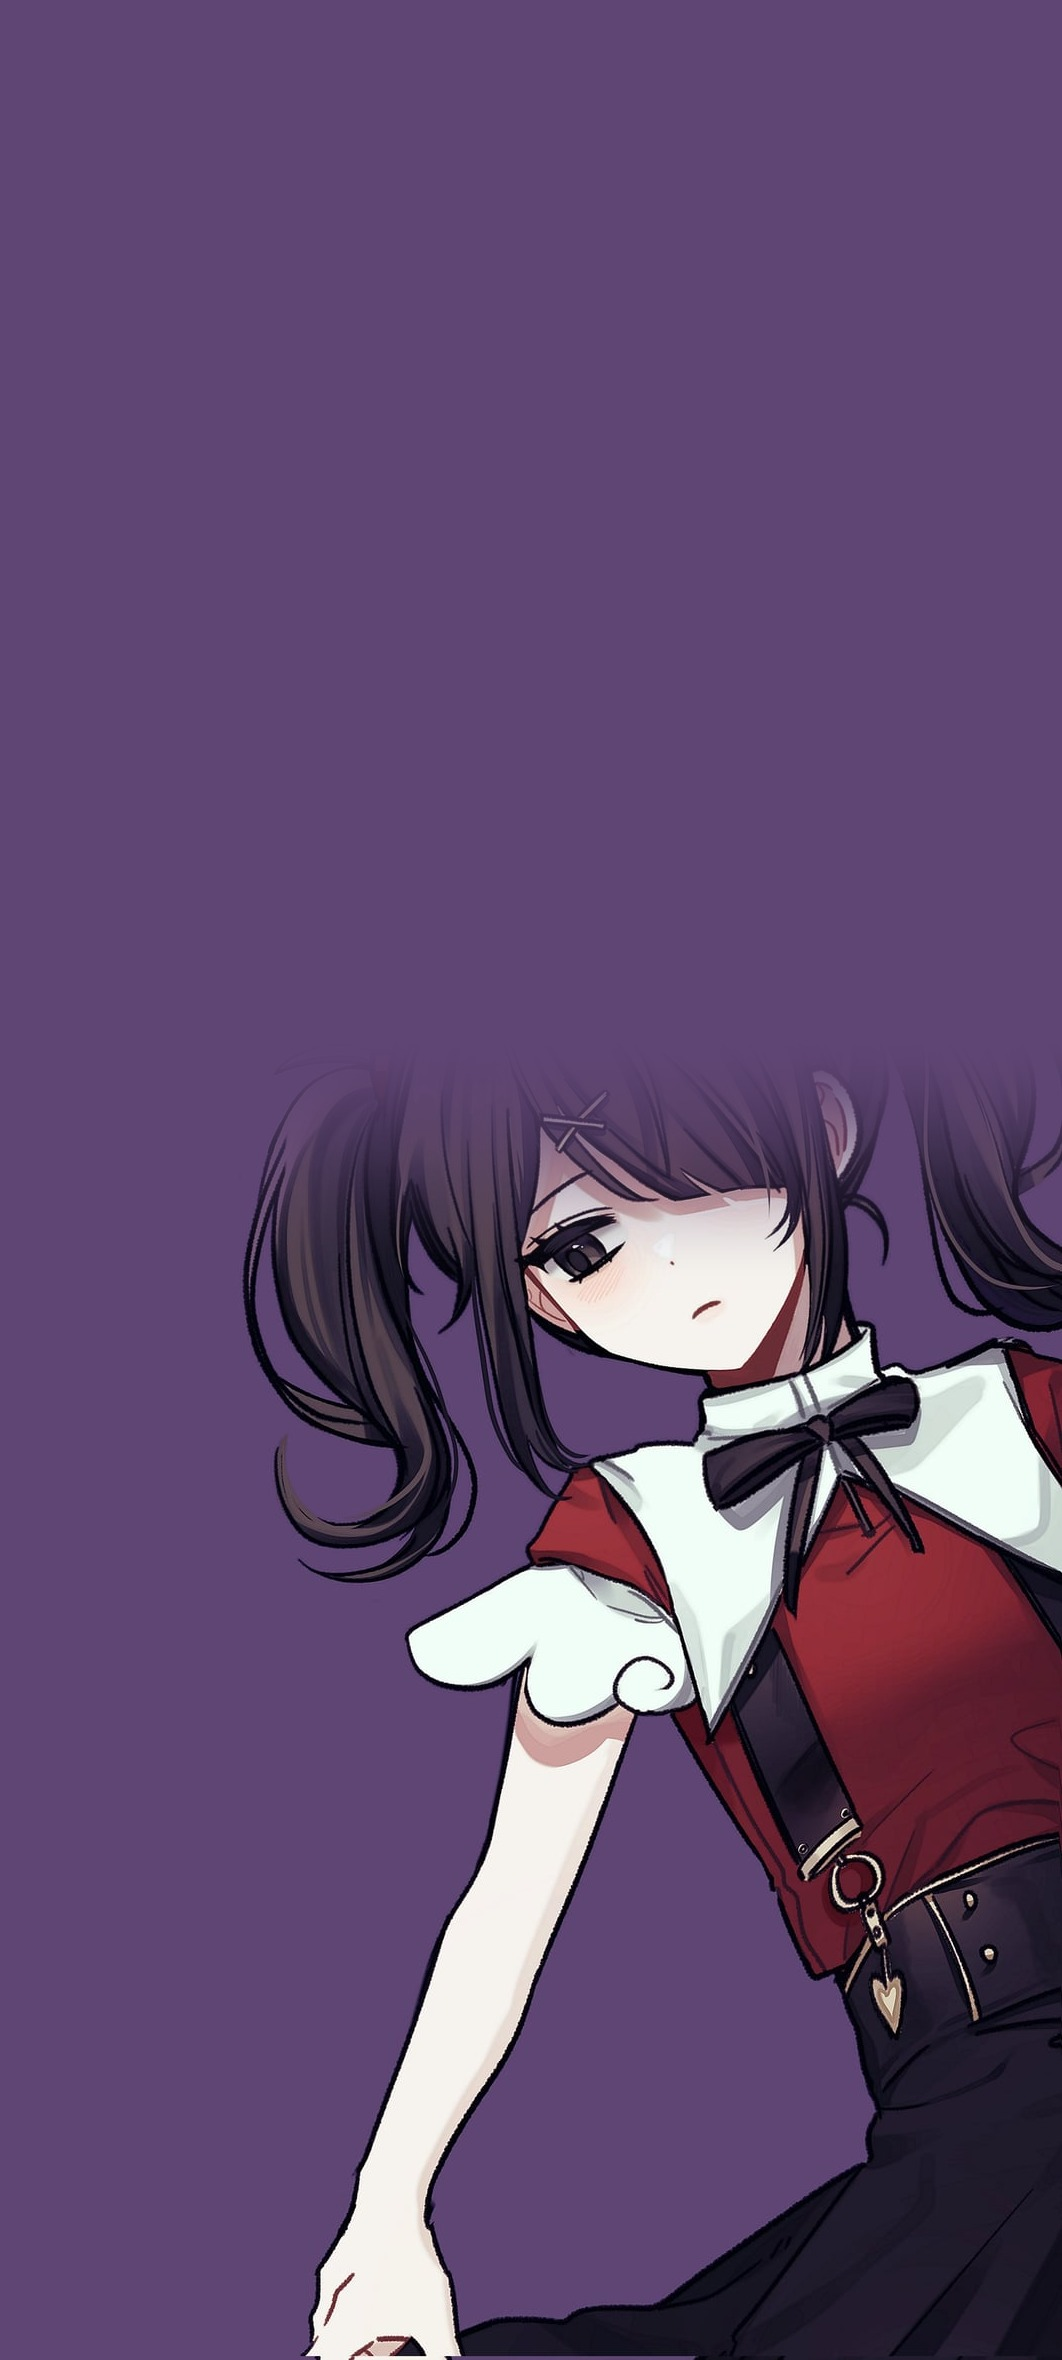
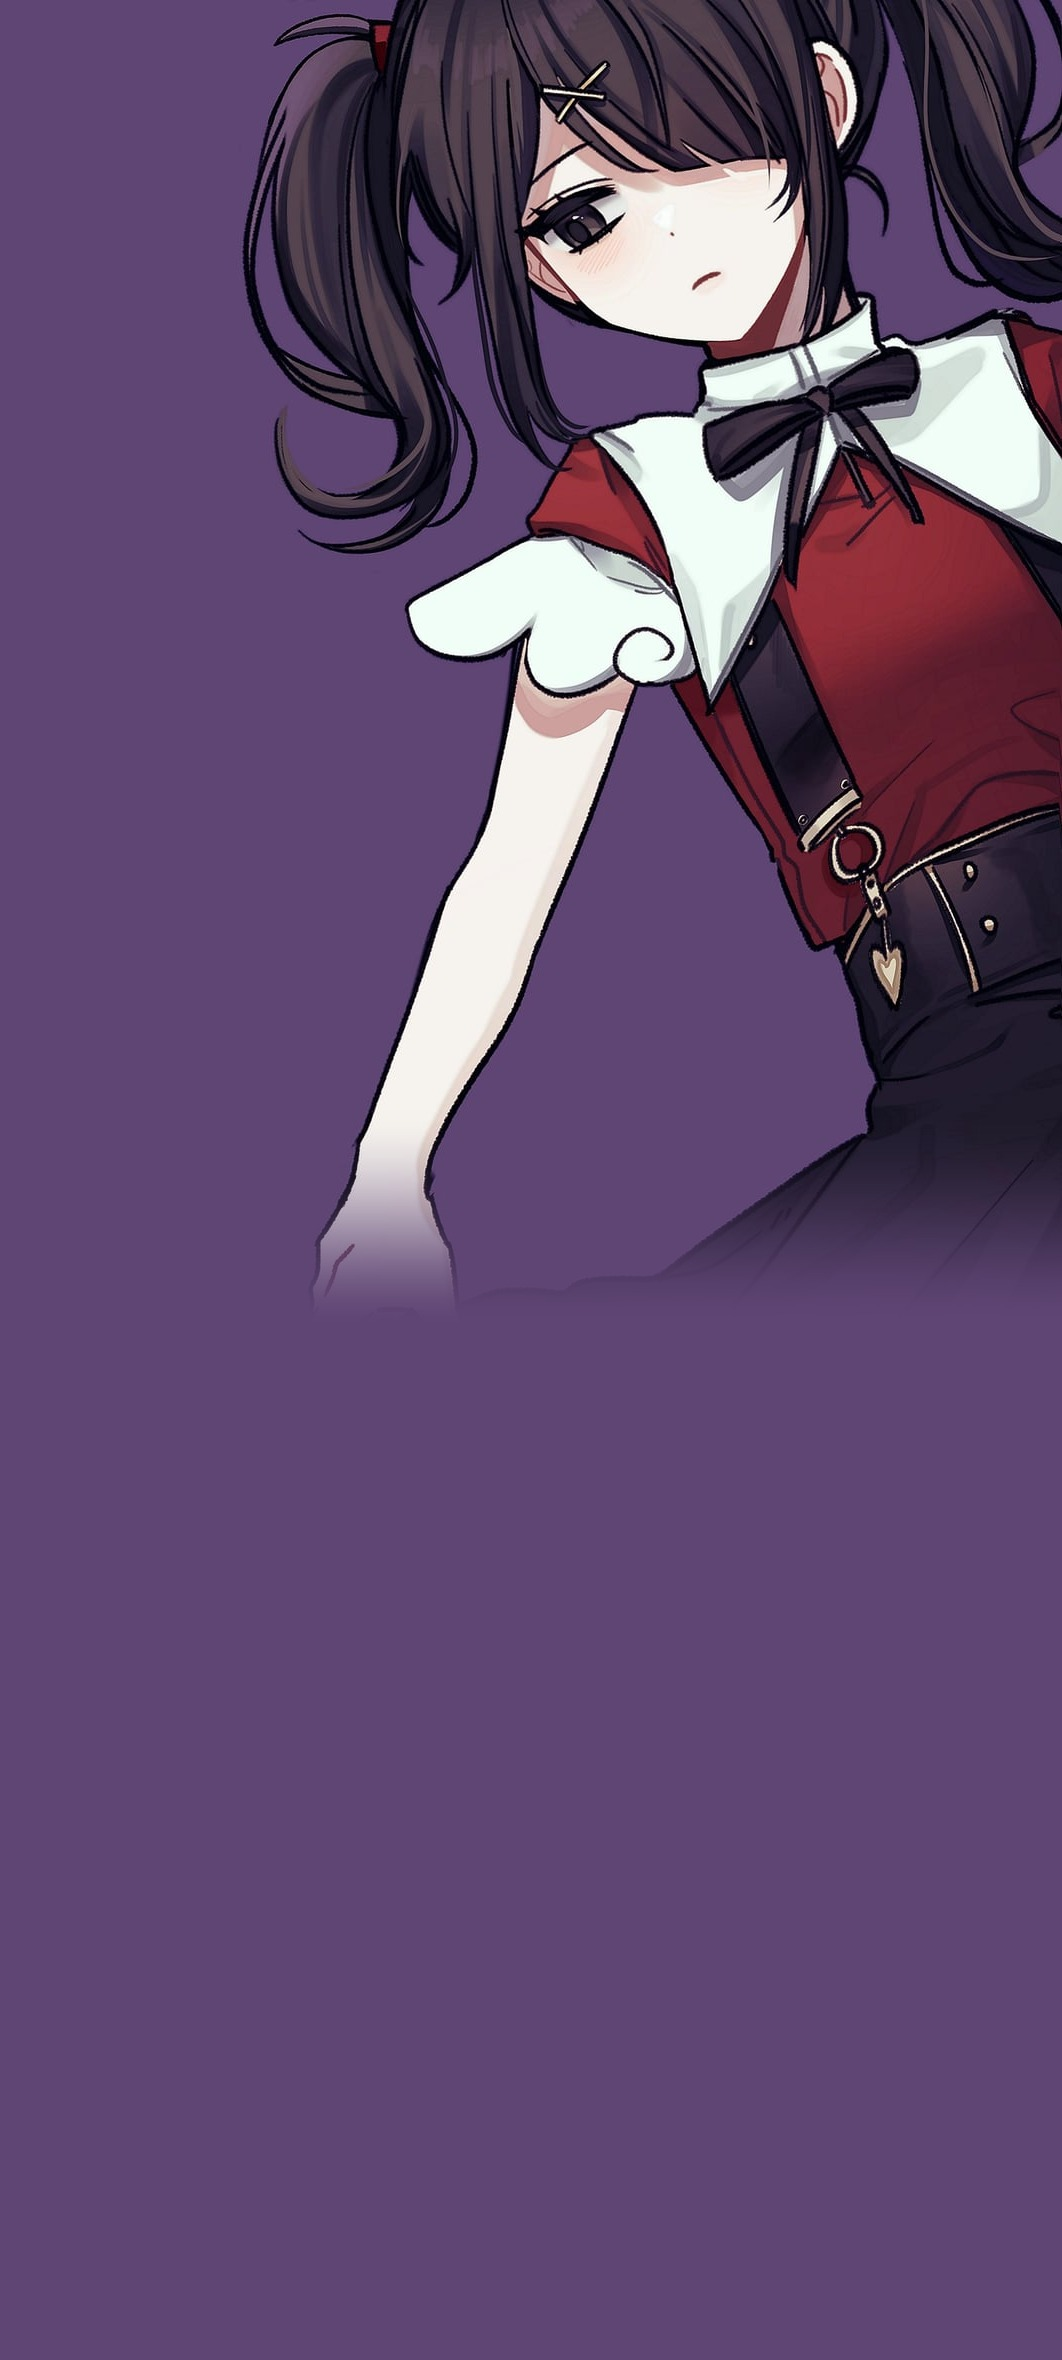
Ame-chan 1.0.1: show her head uncut
Pin the art to the top-right corner so the screen edge frames her like
the original, instead of fading her head out. Only the bottom of the
skirt blends into the purple.

Claude-Session: https://claude.ai/code/session_01NJTNrqWYRC5ESiJAXxfdcF

diff --git a/plugins/ame-theme/js/index.ts b/plugins/ame-theme/js/index.ts
@@ -169,7 +169,7 @@ export default plugin({
 		})
 		themes.registerTheme('ame', 'ame-background', {
 			name: 'Ame-chan (Background)',
-			description: 'The same colours with Ame-chan in the corner, dimmed so text stays readable.',
+			description: 'The same colours with Ame-chan in the top corner, dimmed so text stays readable.',
 			getColors: colors,
 			background: {
 				path: 'assets/ame.jpg',

diff --git a/README.md b/README.md
@@ -175,8 +175,8 @@ from her vest, and gold links and mentions from her heart charm and hairpin. Onl
 an error. Text stays near-white on plum (about 13:1 contrast). Works on every base, including a light version.
 
 - **Ame-chan**: just the colours.
-- **Ame-chan (Background)**: the same colours with Ame-chan in the bottom-right corner, sharp and at full resolution,
-  fading into the purple above so the top of the chat stays clear.
+- **Ame-chan (Background)**: the same colours with Ame-chan in the top-right corner, framed by the screen edge like the
+  original art and sharp at full resolution. Only the bottom of her skirt blends into the purple.
 
 Both themes recolour every Discord colour with the theme engine from dxckie's themes (GPL-3.0), so nothing is left default grey.
 
